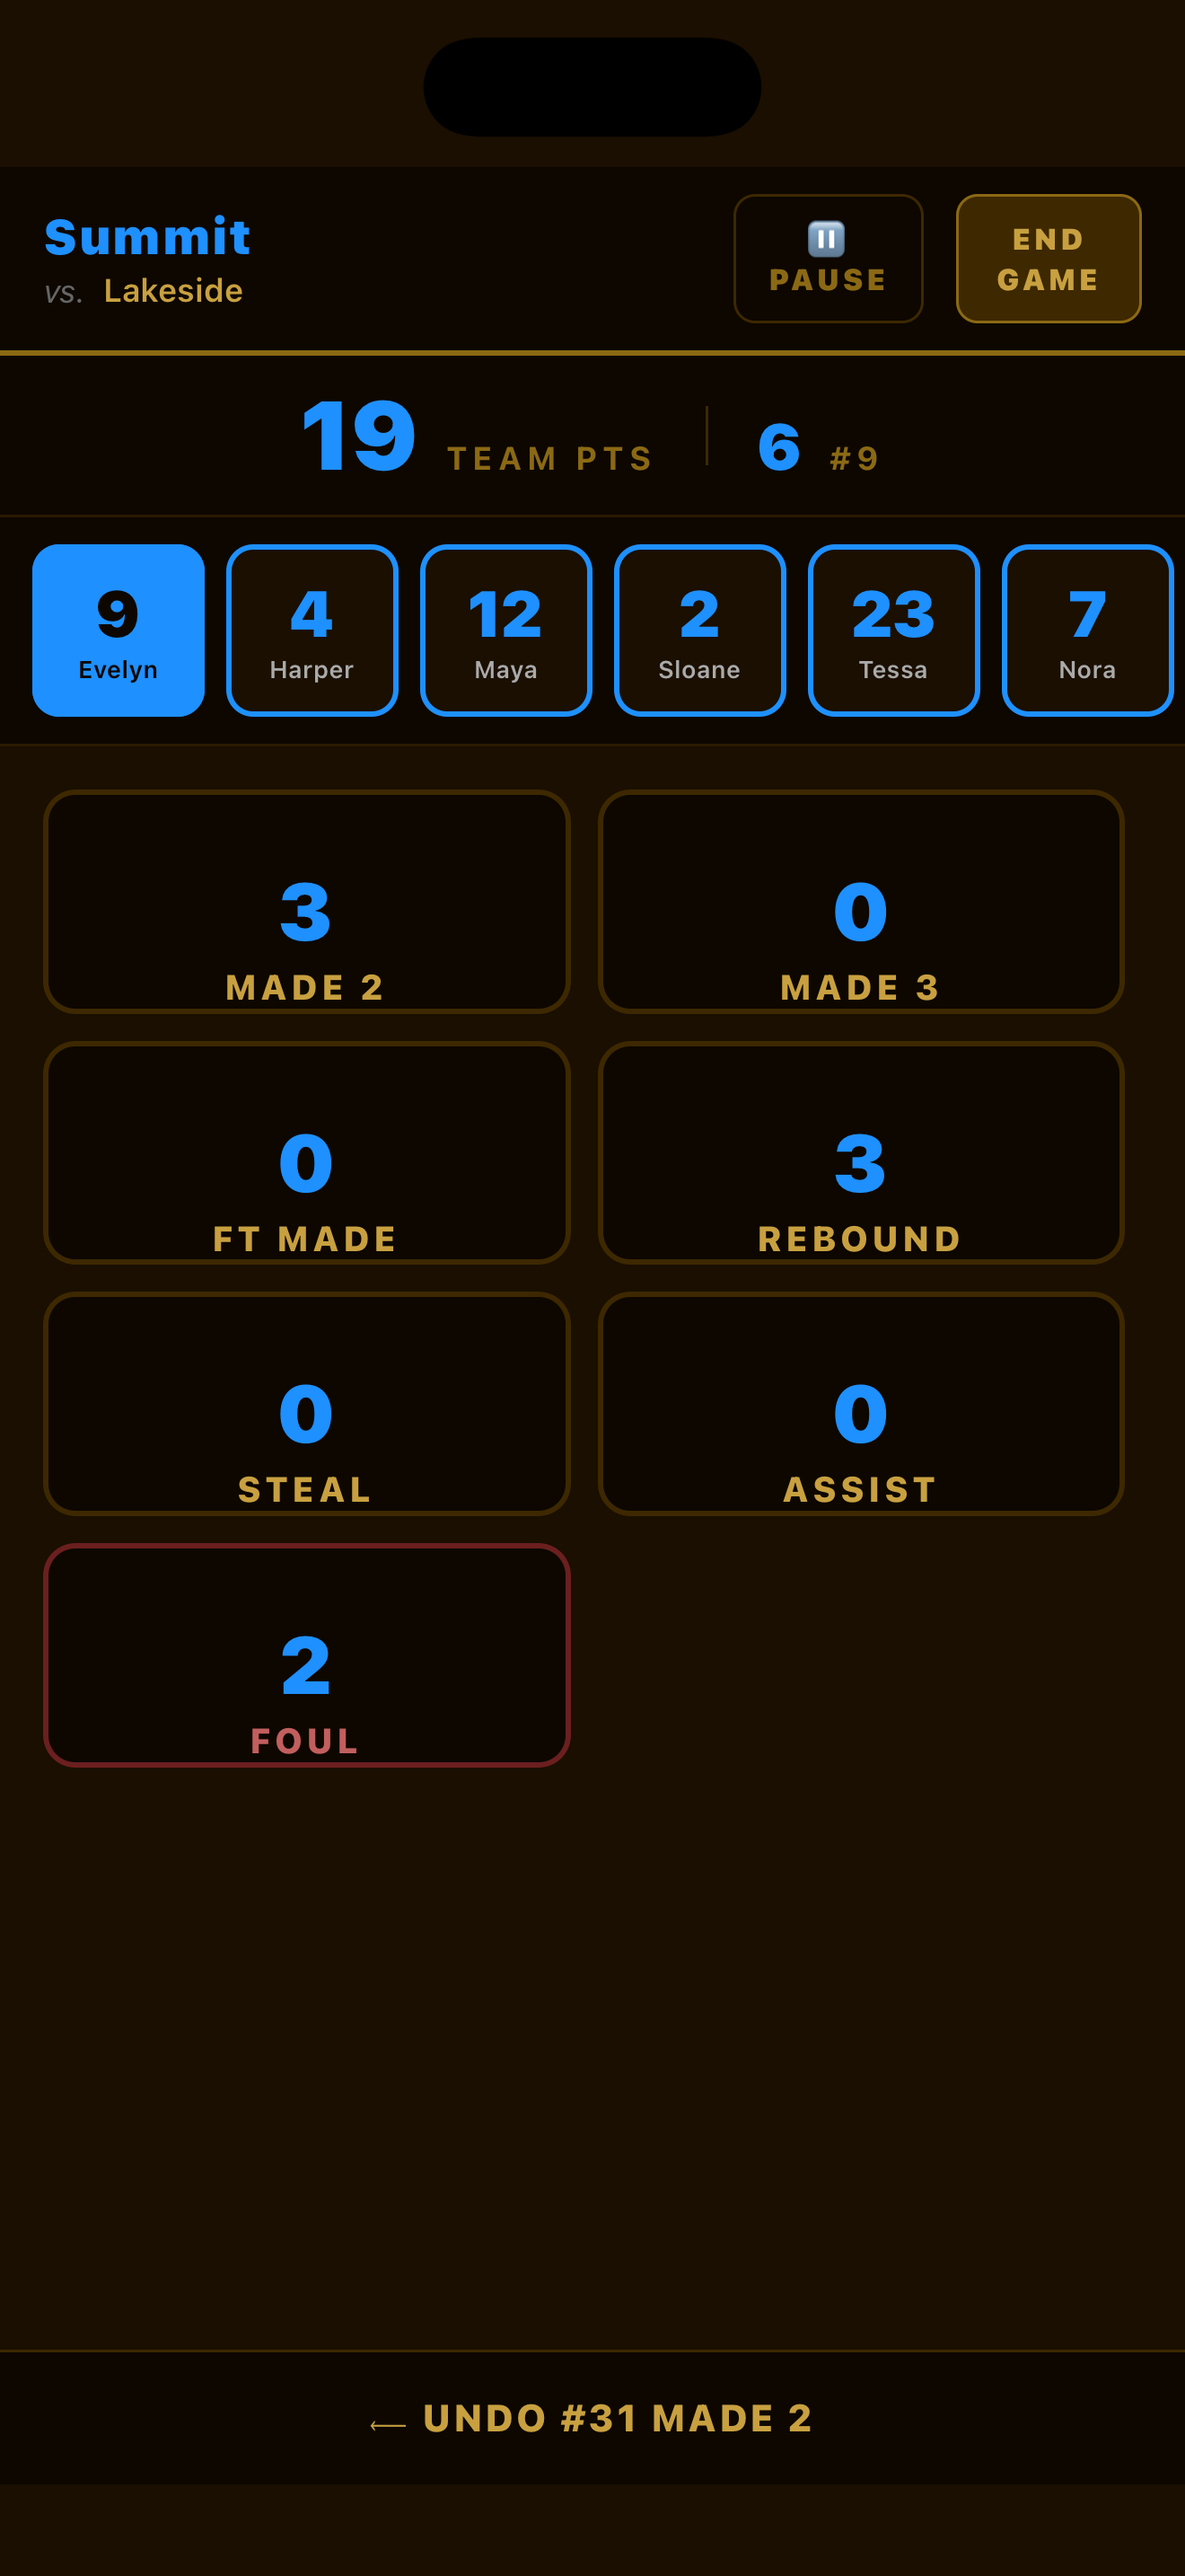
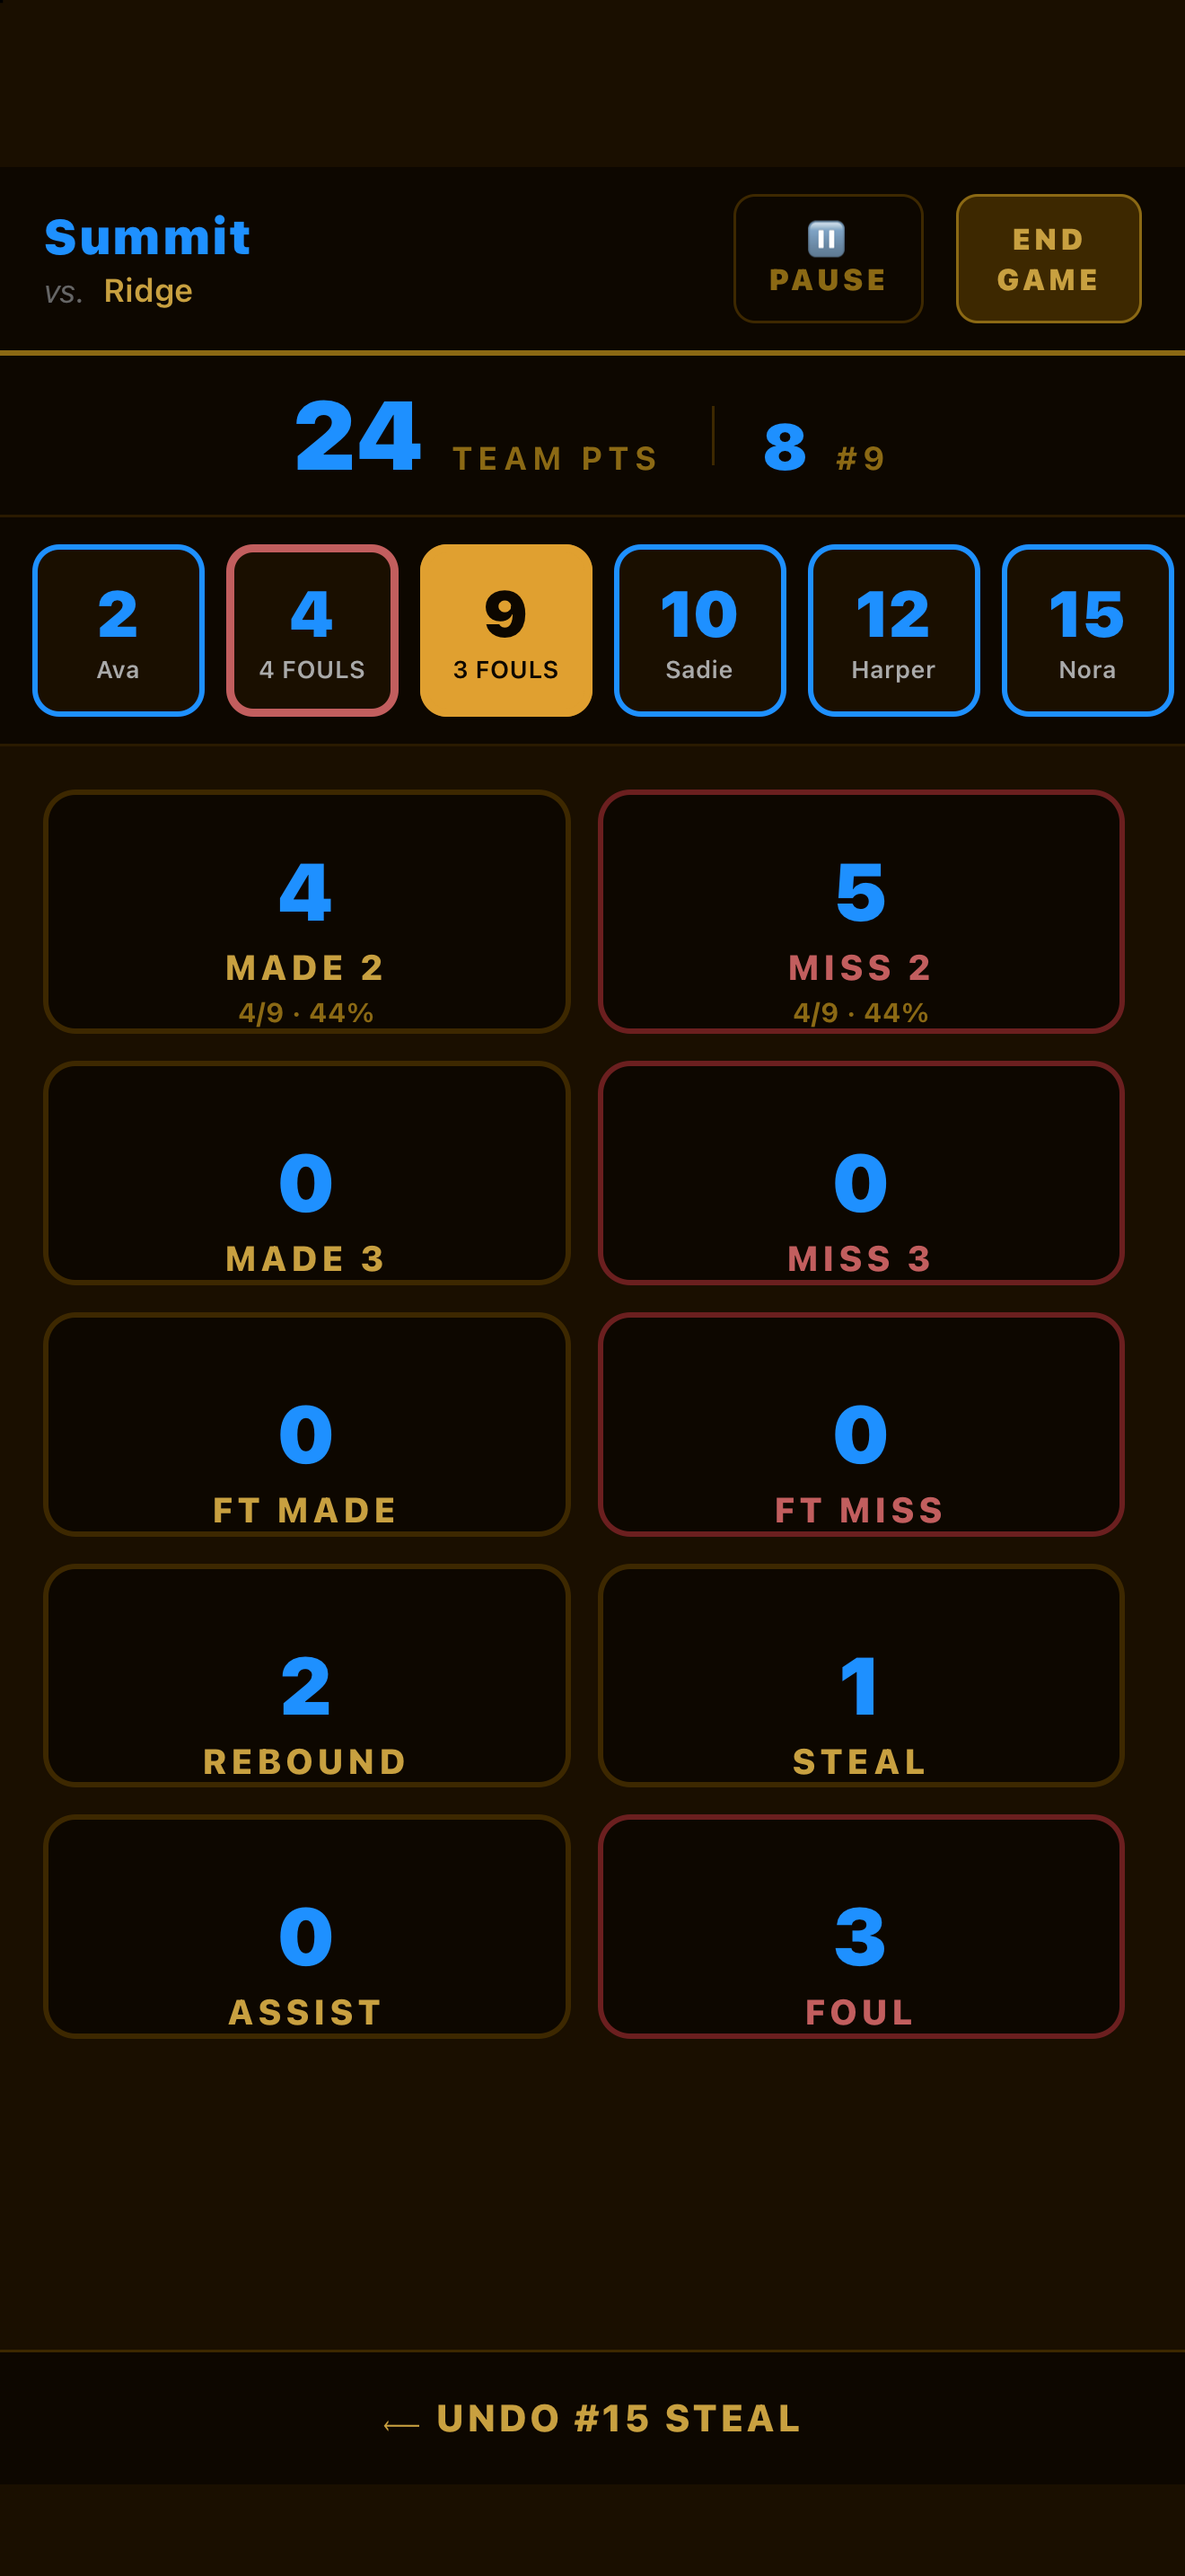
Refresh the My Kid and Team Stats screenshots for 2.8.0

diff --git a/tools/make-screenshots.py b/tools/make-screenshots.py
@@ -125,9 +125,9 @@ IPAD_FRAMES = [
 ]
 
 FRAMES = [
-    ("Track your kid",        "From the stands, one tap at a time",
+    ("Track your kid",        "Every stat, and how much she played",
      ["06-kidgame.png"],                                     "01-track.png"),
-    ("Track the whole team",  "Every player on the roster, two taps per stat",
+    ("Track the whole team",  "Foul trouble and hot hands, at a glance",
      ["13-teamstats.png"],                                   "02-team.png"),
     ("Watch them improve",    "Game-by-game trends, all season long",
      ["07-kidseason.png"],                                   "03-season.png"),
